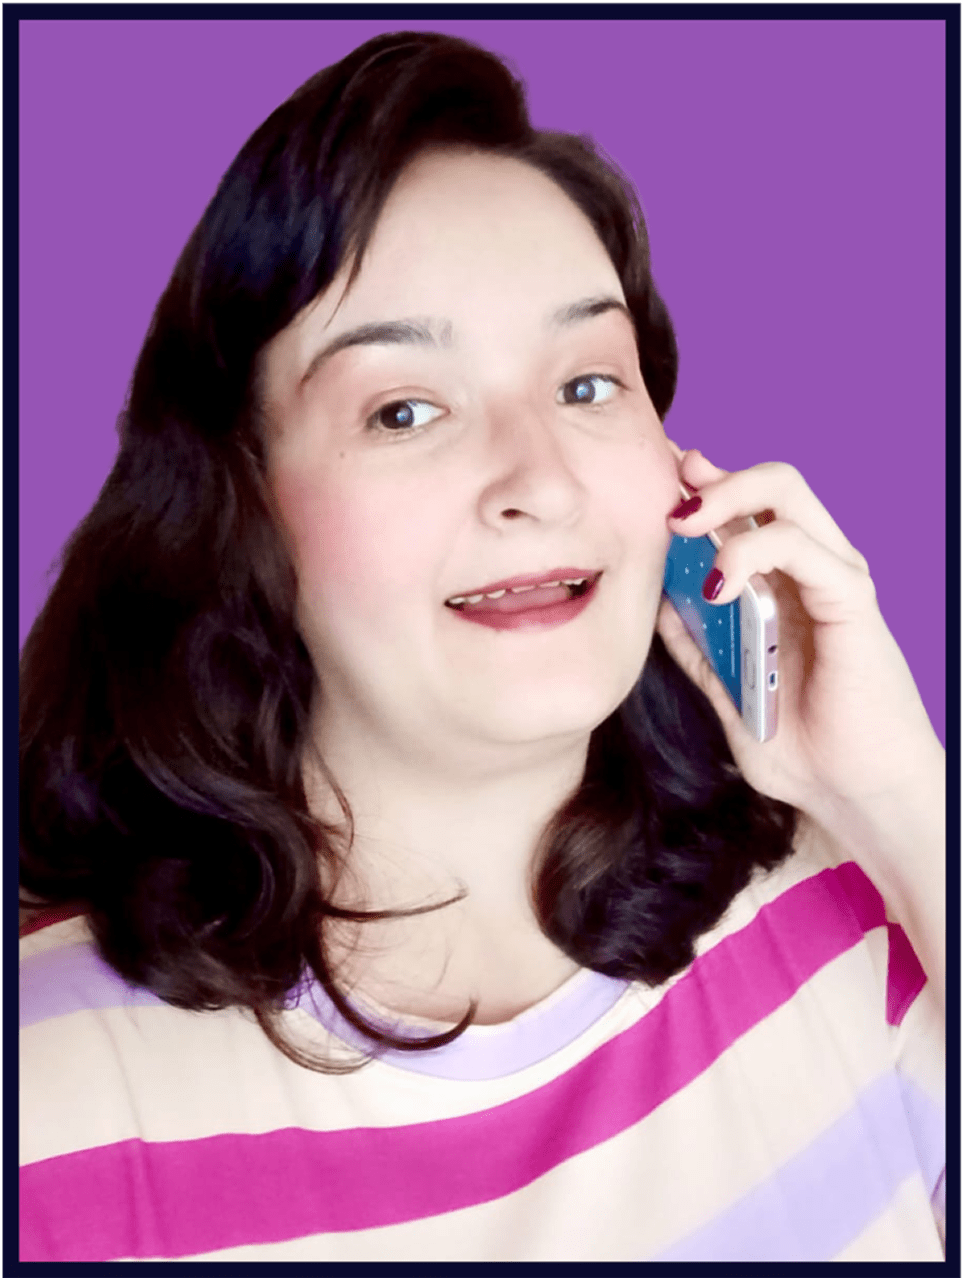
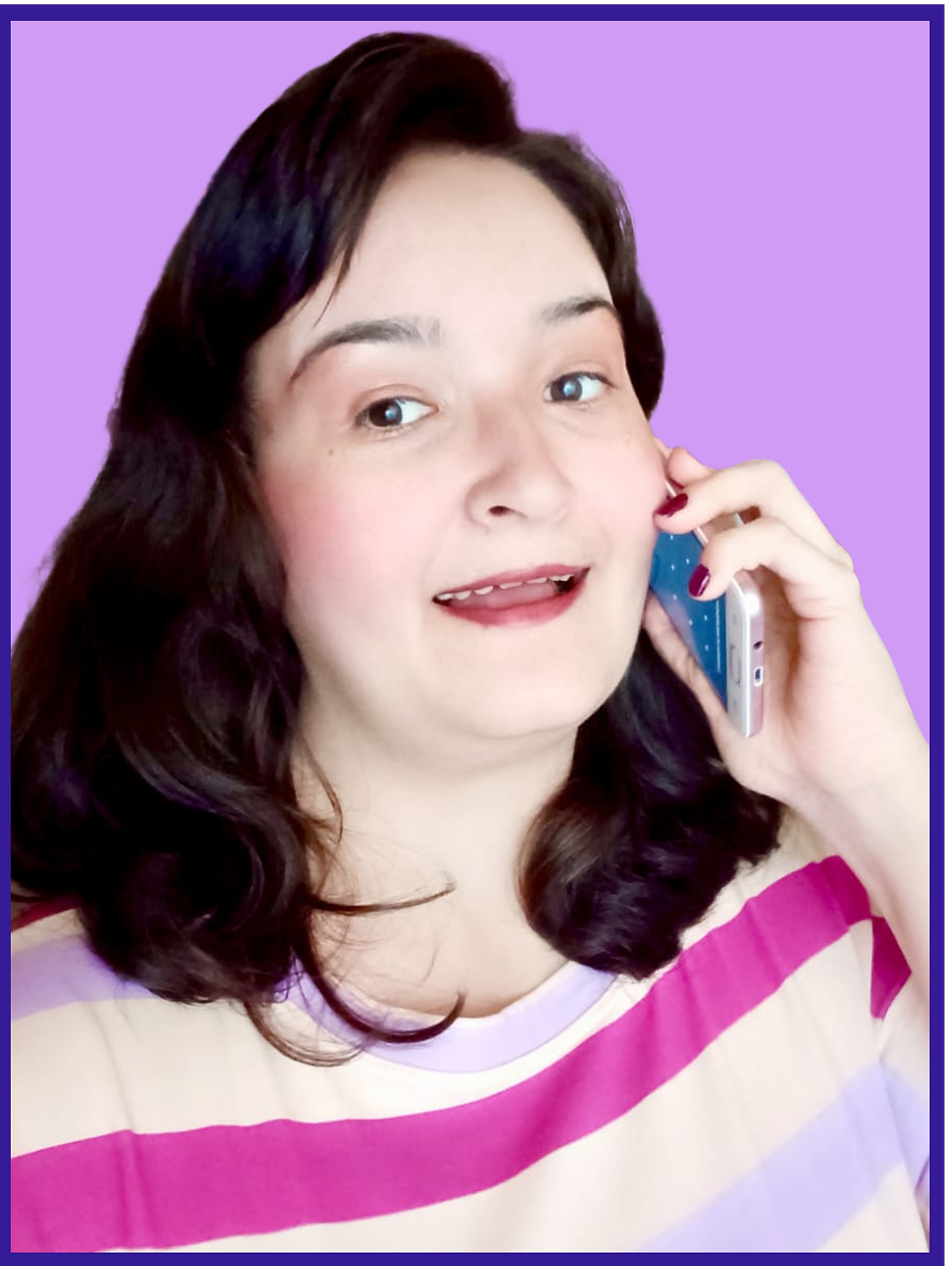
alteracao-cores

diff --git a/style.css b/style.css
@@ -21,7 +21,7 @@
 
 .btn:hover {
   background-color: var(--cor-hover);
-  color: var(--cor-preto);
+  color: var(--cor-branco);
 }
 
 /* Nav-marca */
@@ -43,14 +43,14 @@
 }
 
 .titles h1 {
-  font-family: "Anton", sans-serif;
-  font-size: 6rem;
+  font-family: "Anton", serif;
+  font-size: 5rem;
   transition: font-size 0.3s;
 }
 
 .titles h2 {
   font-family: "Big Shoulders", sans-serif;
-  font-size: 4rem;
+  font-size: 3.4rem;
   transition: font-size 0.3s;
 }
 
@@ -64,8 +64,8 @@
 /* Portfólio */
 .portfolio h2 {
   text-align: center;
-  font-family: "Anton", sans-serif;
-  font-size: 3rem;
+  font-family: "Big Shoulders", sans-serif;
+  font-size: 4rem;
   color: var(--cor-principal);
   padding-top: 3.75rem; /* 60px */
   margin-bottom: 1.875rem; /* 30px */
@@ -107,20 +107,23 @@
 
 .slide.active p {
   font-family: "Roboto Condensed", sans-serif;
-  font-size: 1.2rem;
+  font-size: 1.6rem;
   transition: font-size 0.3s;
+  margin-bottom: 40px;
 }
 
 .slide.active a {
   padding: 1.125rem 2.25rem; /* 18px 36px */
   font-family: "Roboto Condensed", sans-serif;
-  font-size: 2rem;
+  font-weight: bold;
+  font-size: 1.6rem;
   text-decoration: underline;
+  color: var(--cor-principal);
   transition: color 0.3s;
 }
 
 .slide.active a:hover {
-  color: var(--cor-principal);
+  color: var(--cor-branco);
 }
 
 /* Carousel */
@@ -156,7 +159,8 @@
 }
 
 .arrow:hover {
-  background-color: var(--cor-coral);
+  background-color: var(--cor-hover);
+  color: var(--cor-branco);
 }
 
 .arrow.left {
@@ -198,8 +202,8 @@
 }
 
 .container-all h2 {
-  font-family: "Anton", sans-serif;
-  font-size: 3rem;
+  font-family: "Big Shoulders", sans-serif;
+  font-size: 4rem;
   color: var(--cor-branco);
   text-align: center;
   margin-bottom: 2.5rem; /* 40px */
@@ -245,7 +249,7 @@
 
 .card-purple p {
   font-family: "Roboto Condensed", sans-serif;
-  font-size: 1.2rem;
+  font-size: 1.6rem;
 }
 
 .card img {
@@ -278,8 +282,8 @@
 }
 
 .container-sale h2 {
-  font-family: "Anton", sans-serif !important;
-  font-size: 3rem;
+  font-family: "Big Shoulders", sans-serif;
+  font-size: 4rem;
   font-weight: bold;
   text-align: center;
   margin-bottom: 2rem;
@@ -309,12 +313,14 @@
 }
 
 .sale-buy p {
+  font-family: "Roboto Condensed", sans-serif;
+  font-size: 1.6rem;
   margin-bottom: 1.5rem;
   color: #dddddd;
 }
 
 .price-box {
-  background-color: var(--cor-apoio);
+  background-color: var(--cor-secundaria);
   color: var(--cor-principal);
   font-weight: bold;
   font-size: 2rem;
@@ -330,12 +336,12 @@
 }
 
 .price {
-  font-family: "Anton", sans-serif !important;
+  font-family: "Big Shoulders", sans-serif !important;
   font-size: 3rem;
 }
 
 .offer-details {
-  background-color: var(--cor-branco);
+  background-color: var(--cor-secundaria);
   padding: 1rem; /* 16px */
 }
 
@@ -372,13 +378,13 @@
   padding: 1.125rem 2.25rem; /* 18px 36px */
   border: none;
   background-color: #d3d3d3;
-  font-size: 1rem;
+  font-family: "Roboto Condensed", sans-serif;
+  font-size: 1.2rem;
   transition: background-color 0.3s;
 }
 
 .form-lead button {
-  background-color: var(--cor-coral);
-  color: var(--cor-branco);
+  background-color: var(--cor-botao);
   font-family: "Roboto Condensed", sans-serif;
   font-size: 2rem;
   padding: 1.125rem 2.25rem; /* 18px 36px */
@@ -388,7 +394,8 @@
 }
 
 .form-lead button:hover {
-  background-color: var(--cor-apoio);
+  background-color: var(--cor-hover);
+  color: var(-cor--branco);
 }
 
 /* FAQ */
@@ -398,9 +405,9 @@
 }
 
 .container-faq h2 {
-  font-family: "Anton", sans-serif;
+  font-family: "Big Shoulders", sans-serif;
+  font-size: 4rem;
   color: var(--cor-branco);
-  font-size: 3rem;
   text-align: center;
   margin-bottom: 30px;
   padding-top: 60px;
@@ -411,12 +418,12 @@
   padding: 5vh 20vh;
 }
 
-.faq-items div p {
+.faq-item1 p,
+.faq-item2 p {
   font-family: "Roboto Condensed", sans-serif;
   font-size: 1.6rem;
   line-height: 1.5;
   padding: 30px;
-  background-color: var(--cor-principal);
   color: var(--cor-branco);
   display: none;
   transition: background-color 0.3s, color 0.3s;
@@ -424,8 +431,8 @@
 
 .faq-item1 h3,
 .faq-item2 h3 {
-  font-family: "Big Shoulders", sans-serif;
-  font-size: 2rem;
+  font-family: "Roboto Condensed", sans-serif;
+  font-size: 1.6rem;
   padding: 30px;
   cursor: pointer;
   transition: background-color 0.3s, color 0.3s;
@@ -436,12 +443,12 @@
 }
 
 .faq-item2 h3 {
-  background-color: var(--cor-secundaria);
+  background-color: var(--cor-branco);
 }
 
 .faq-item1 h3:hover,
 .faq-item2 h3:hover {
-  background-color: var(--cor-coral);
+  background-color: var(--cor-roxo);
   color: var(--cor-branco);
 }
 
@@ -459,13 +466,13 @@
 }
 
 .p-who h2 {
-  font-family: "Anton", sans-serif;
-  font-size: 3rem;
+  font-family: "Big Shoulders", sans-serif;
+  font-size: 4rem;
 }
 
 .p-who p {
   font-family: "Roboto Condensed", sans-serif;
-  font-size: 1.2rem;
+  font-size: 1.6rem;
 }
 
 .img-who {
@@ -490,7 +497,7 @@
 }
 
 .p-message h2 {
-  font-family: "Big Shoulders", sans-serif;
+  font-family: "Roboto Condensed", sans-serif;
   font-size: 2rem;
 }
 
@@ -501,15 +508,41 @@
 
 .list-message {
   display: flex;
-  justify-content: space-between;
   gap: 0.5rem; /* 8px */
   margin: 1rem auto;
 }
 
 .list-message li {
+  position: relative; /* permite posicionar o overlay */
   cursor: pointer;
-  transition: color 0.3s;
 }
+
+.list-message li::after {
+  content: "";
+  position: absolute;
+  top: 0; left: 0;
+  width: 100%;
+  height: 100%;
+  background-color: #097975;
+  opacity: 0;
+  transition: opacity 0.3s ease;
+  pointer-events: none; /* deixa o clique passar para o link */
+  z-index: 1;
+}
+
+.list-message li:hover::after {
+  opacity: 0.6; /* ou outro valor que você queira */
+}
+
+/* Garantir que a imagem fique abaixo do overlay */
+.list-message li img {
+  display: block;
+  width: 100%;
+  height: auto;
+  position: relative;
+  z-index: 0;
+}
+
 
 /* Footer */
 .footer {

diff --git a/colors.css b/colors.css
@@ -1,10 +1,10 @@
 :root {
-  --cor-principal: #003c9f;
-  --cor-secundaria: #eeeefc;
-  --cor-apoio: #deb0da;
-  --cor-botao: #2ED5D2;
-  --cor-hover: #2FE5FF;
+  --cor-principal: #36009C;
+  --cor-secundaria: #f5f5f5;
+  --cor-apoio: #D09BF5;
+  --cor-botao: #00C2BA;
+  --cor-hover: #097975;
   --cor-branco: #FFF;
   --cor-preto: #000;
-  --cor-coral: #f87a81;
+  --cor-roxo: #9765E0;
 }

diff --git a/index.html b/index.html
@@ -223,7 +223,7 @@
         </div>
       </div>
 
-      <img src="pati.png" alt="foto-pati" class="img-who" width="481" height="639" />
+      <img src="pati.png" alt="foto-pati" class="img-who" width="475" height="633" />
     </section>
 
     <footer class="footer">
